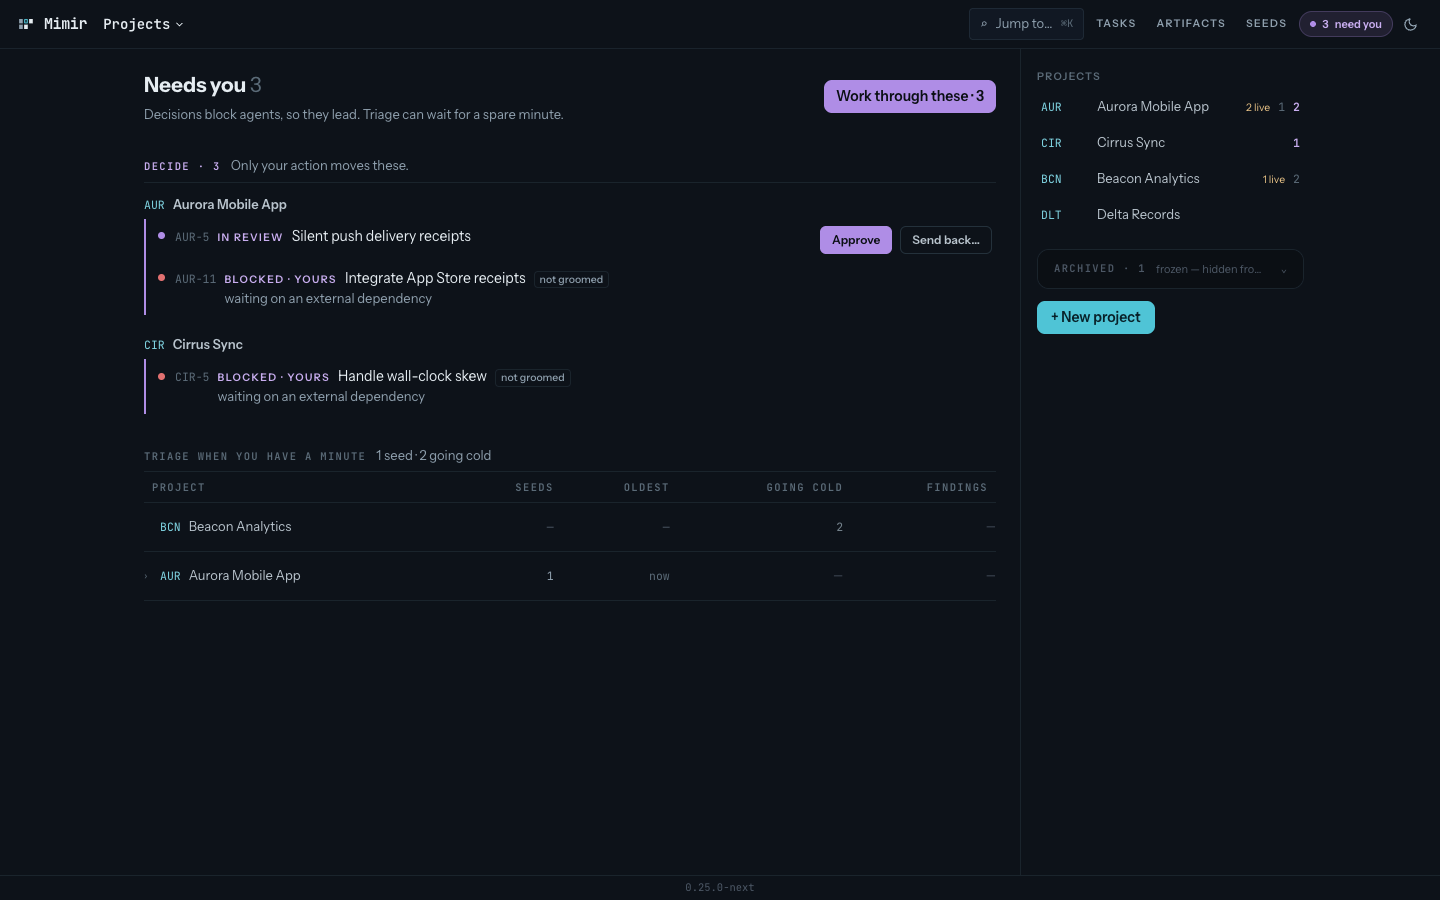
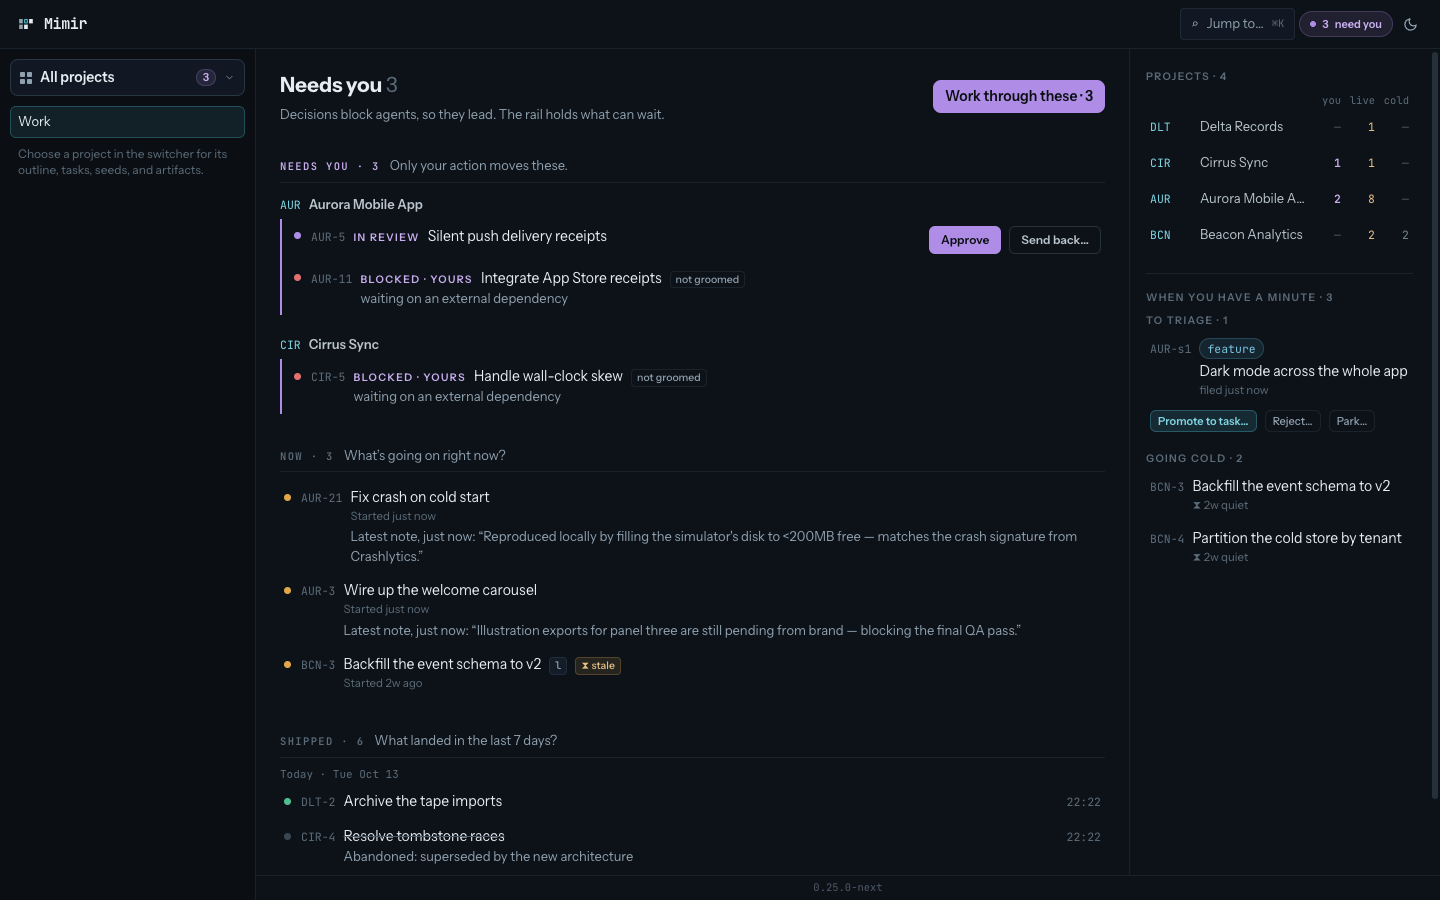
docs: recapture the console screenshots for the sidebar and the new root page

diff --git a/README.md b/README.md
@@ -12,7 +12,7 @@ Work state lives in one local SQLite file by default, or in a shared
 PostgreSQL database for agents on several machines. Mimir derives queues, status rollups, blockers, and stale work when queried;
 there is no second cache of project status to keep in sync.
 
-![Mimir review page listing the decisions that wait on the operator across projects](docs/assets/console-overview.png)
+![Mimir root page: the decisions waiting on the operator, then in-flight and shipped work across projects, beside a project health rail](docs/assets/console-overview.png)
 
 ## Why Mimir
 

diff --git a/docs/user/using-the-console.md b/docs/user/using-the-console.md
@@ -14,7 +14,7 @@ says otherwise. For access from another device, pick a
 [network mode](../guides/port-and-proxy.md): `tailscale serve` keeps HTTPS and
 the installable PWA, and a reverse proxy does too.
 
-![Mimir project work page with its rail of direction, details, and artifacts](../assets/console-project.png)
+![Mimir project work page with the project sidebar and outline, and a rail of direction, about, and artifacts](../assets/console-project.png)
 
 ## Review what needs you
 
